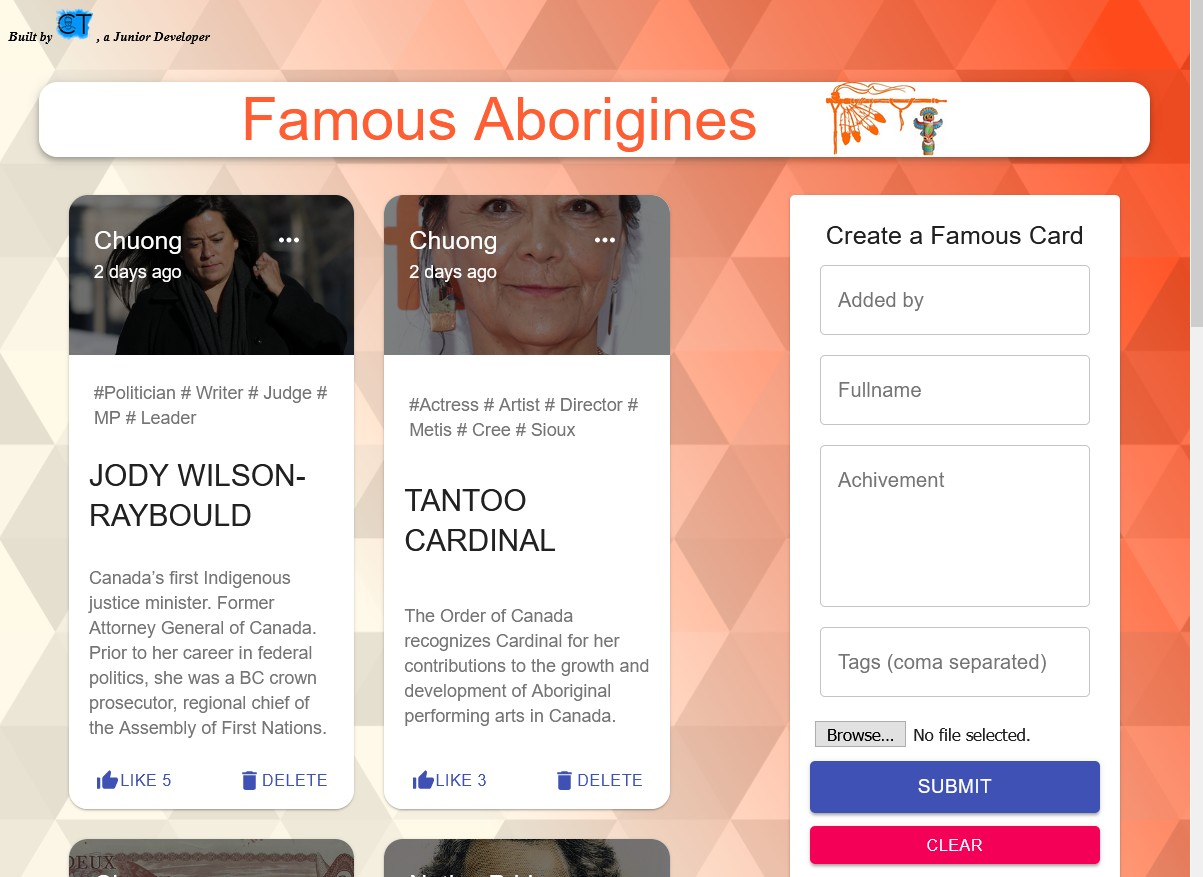
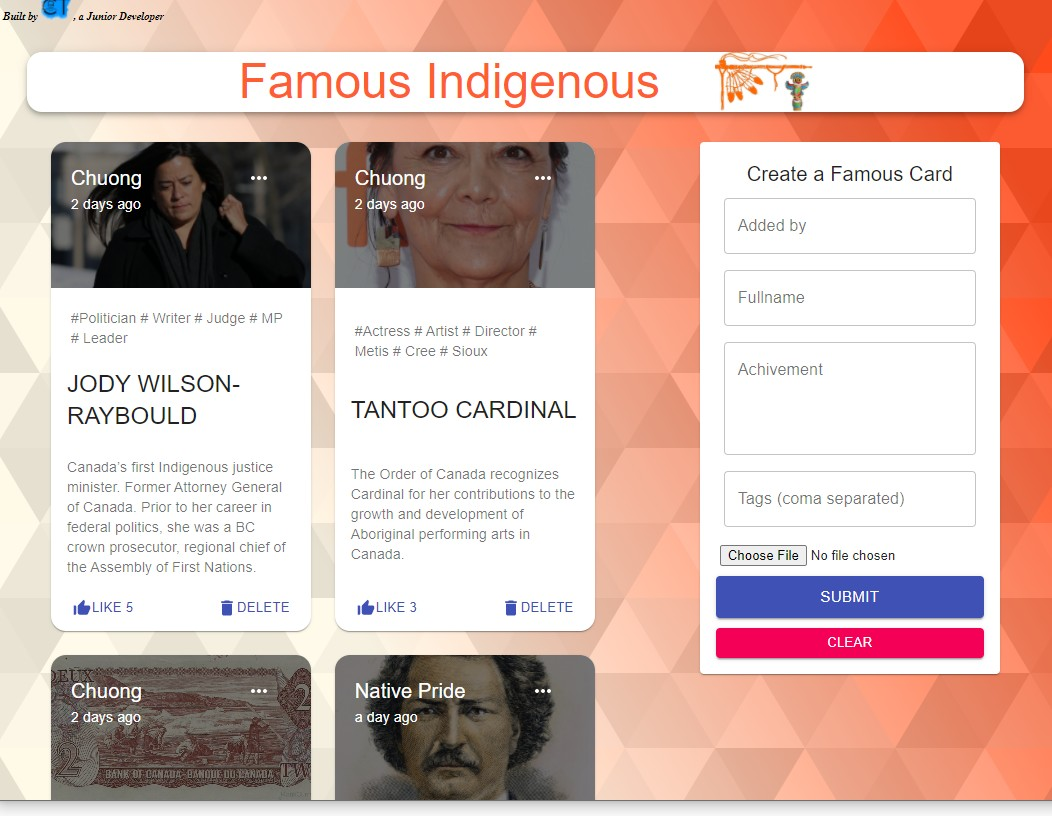
fix aboriginal wording

diff --git a/index.html b/index.html
@@ -182,24 +182,24 @@
             <!-- Text Box -->
             <div class="text-gray-600 p-3 text-center inline-flex items-center justify-center w-16 h-16 mb-6 shadow-lg rounded-full bg-gray-100">
               <!-- Icon -->
-              <i class="fas fa-file-code text-xl text-orange-500"></i>
+              <i class="fab fa-node-js text-xl text-orange-500"></i>
             </div>
             <h3 class="text-3xl mb-2 font-semibold leading-normal">
-              Famous Indigenous _ a MERN stack project.
+              First MERN stack project.
             </h3>
             <p class="text-lg font-light leading-relaxed mt-4 mb-4 text-gray-700">
-              Credit to Adrian Hajdin from  <a href="https://www.completepathtojavascriptmastery.com/"
+              Credit to the generosity of Adrian Hajdin from <a href="https://www.completepathtojavascriptmastery.com/"
               class="font-semibold text-gray-800 mt-8 hover:bg-orange-500 "
-              >JavaScript Mastery </a> <br>
-              This project has an extensive backend API with Node.js & Express. Using build script to secure the access keys, I was able to deploy it to Heroku with Git.
+              >JavaScript Mastery. </a> I've learned so much from his free second-to-none tutorial. <br>
+              This project has an extensive backend API with <i class="fab fa-node"></i> & Express. Using build script to secure the access keys, I was able to deploy it to Heroku with Git.
             </p>
             <p class="text-lg font-light leading-relaxed mt-0 mb-4 text-gray-700">
-              In this project, I have a free-plan for my API storage but if you find this useful, please keep adding more cards and I will switch to a paid account for my Mongodb.
+              For API storage, a free-plan was used for database cluster, but if you find this is useful, please keep adding more cards and I will switch to a paid account for my MongoDB.
             </p>
             <a
               href="https://famousindigenous.netlify.app/"
               class="font-semibold text-gray-800 mt-8 hover:bg-orange-500 "
-              >Check out the page here
+              >Start adding cards here
             </a>
           </div>
 
@@ -208,7 +208,7 @@
             <div class="relative flex flex-col min-w-0 break-words bg-white w-full mb-6 shadow-lg rounded-lg bg-orange-500">
               <!-- Image -->
               <img
-                alt="Nasa photo page"
+                alt="famousindigenous"
                 src="./img/FamousIndi.jpg"
                 class="w-full align-middle rounded-t-lg"
               />
